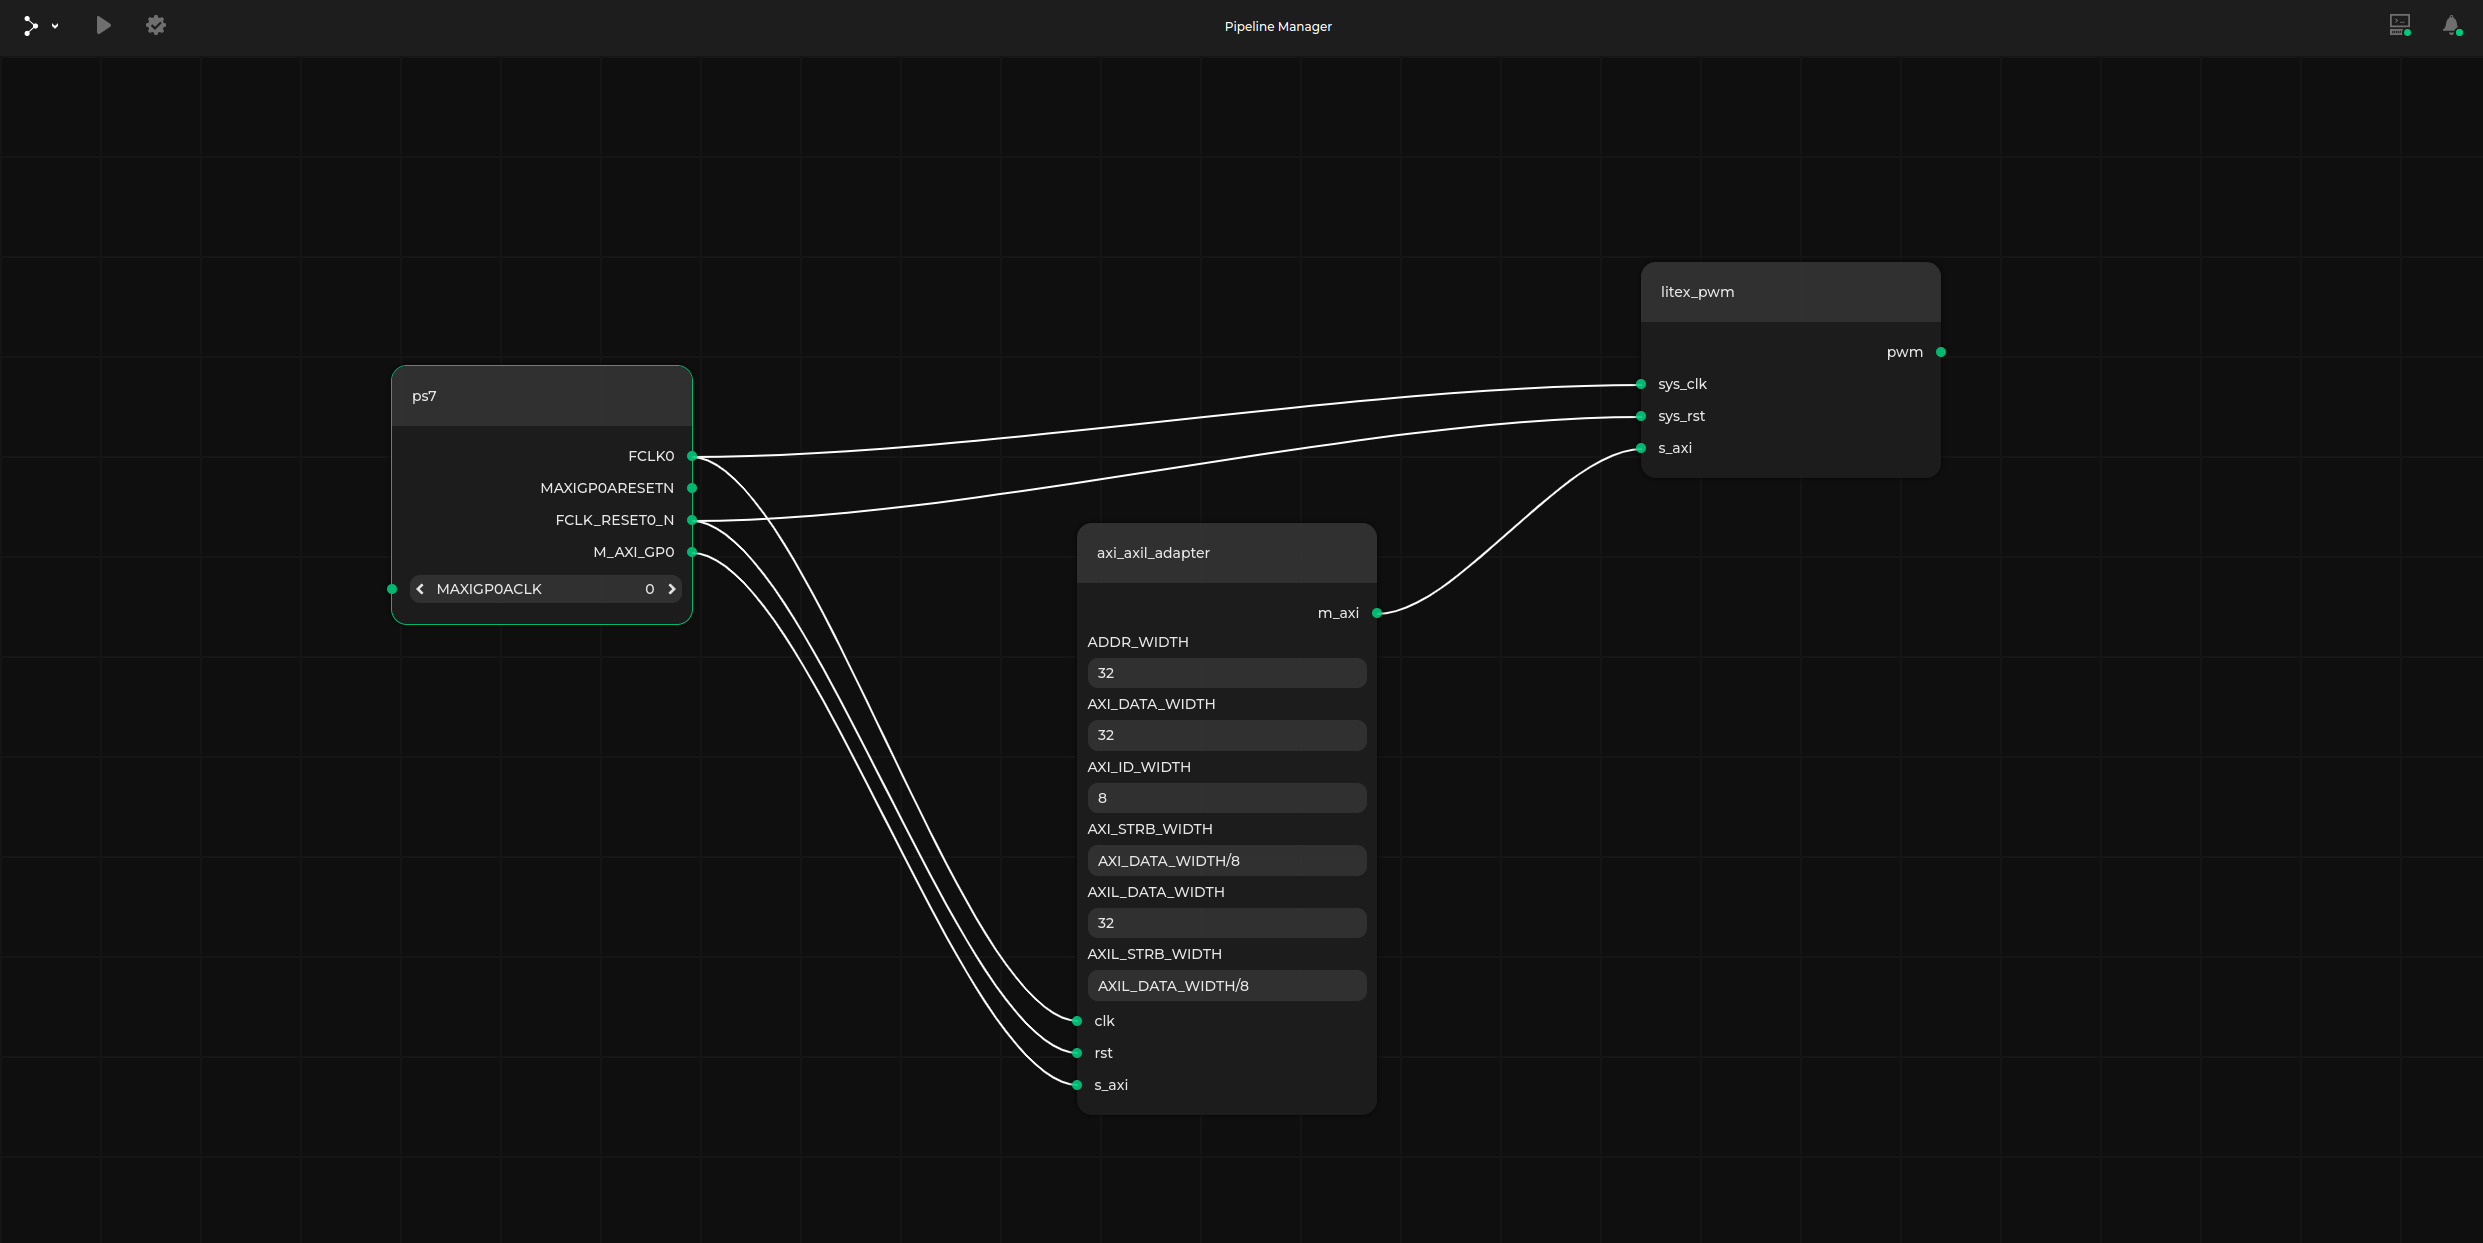
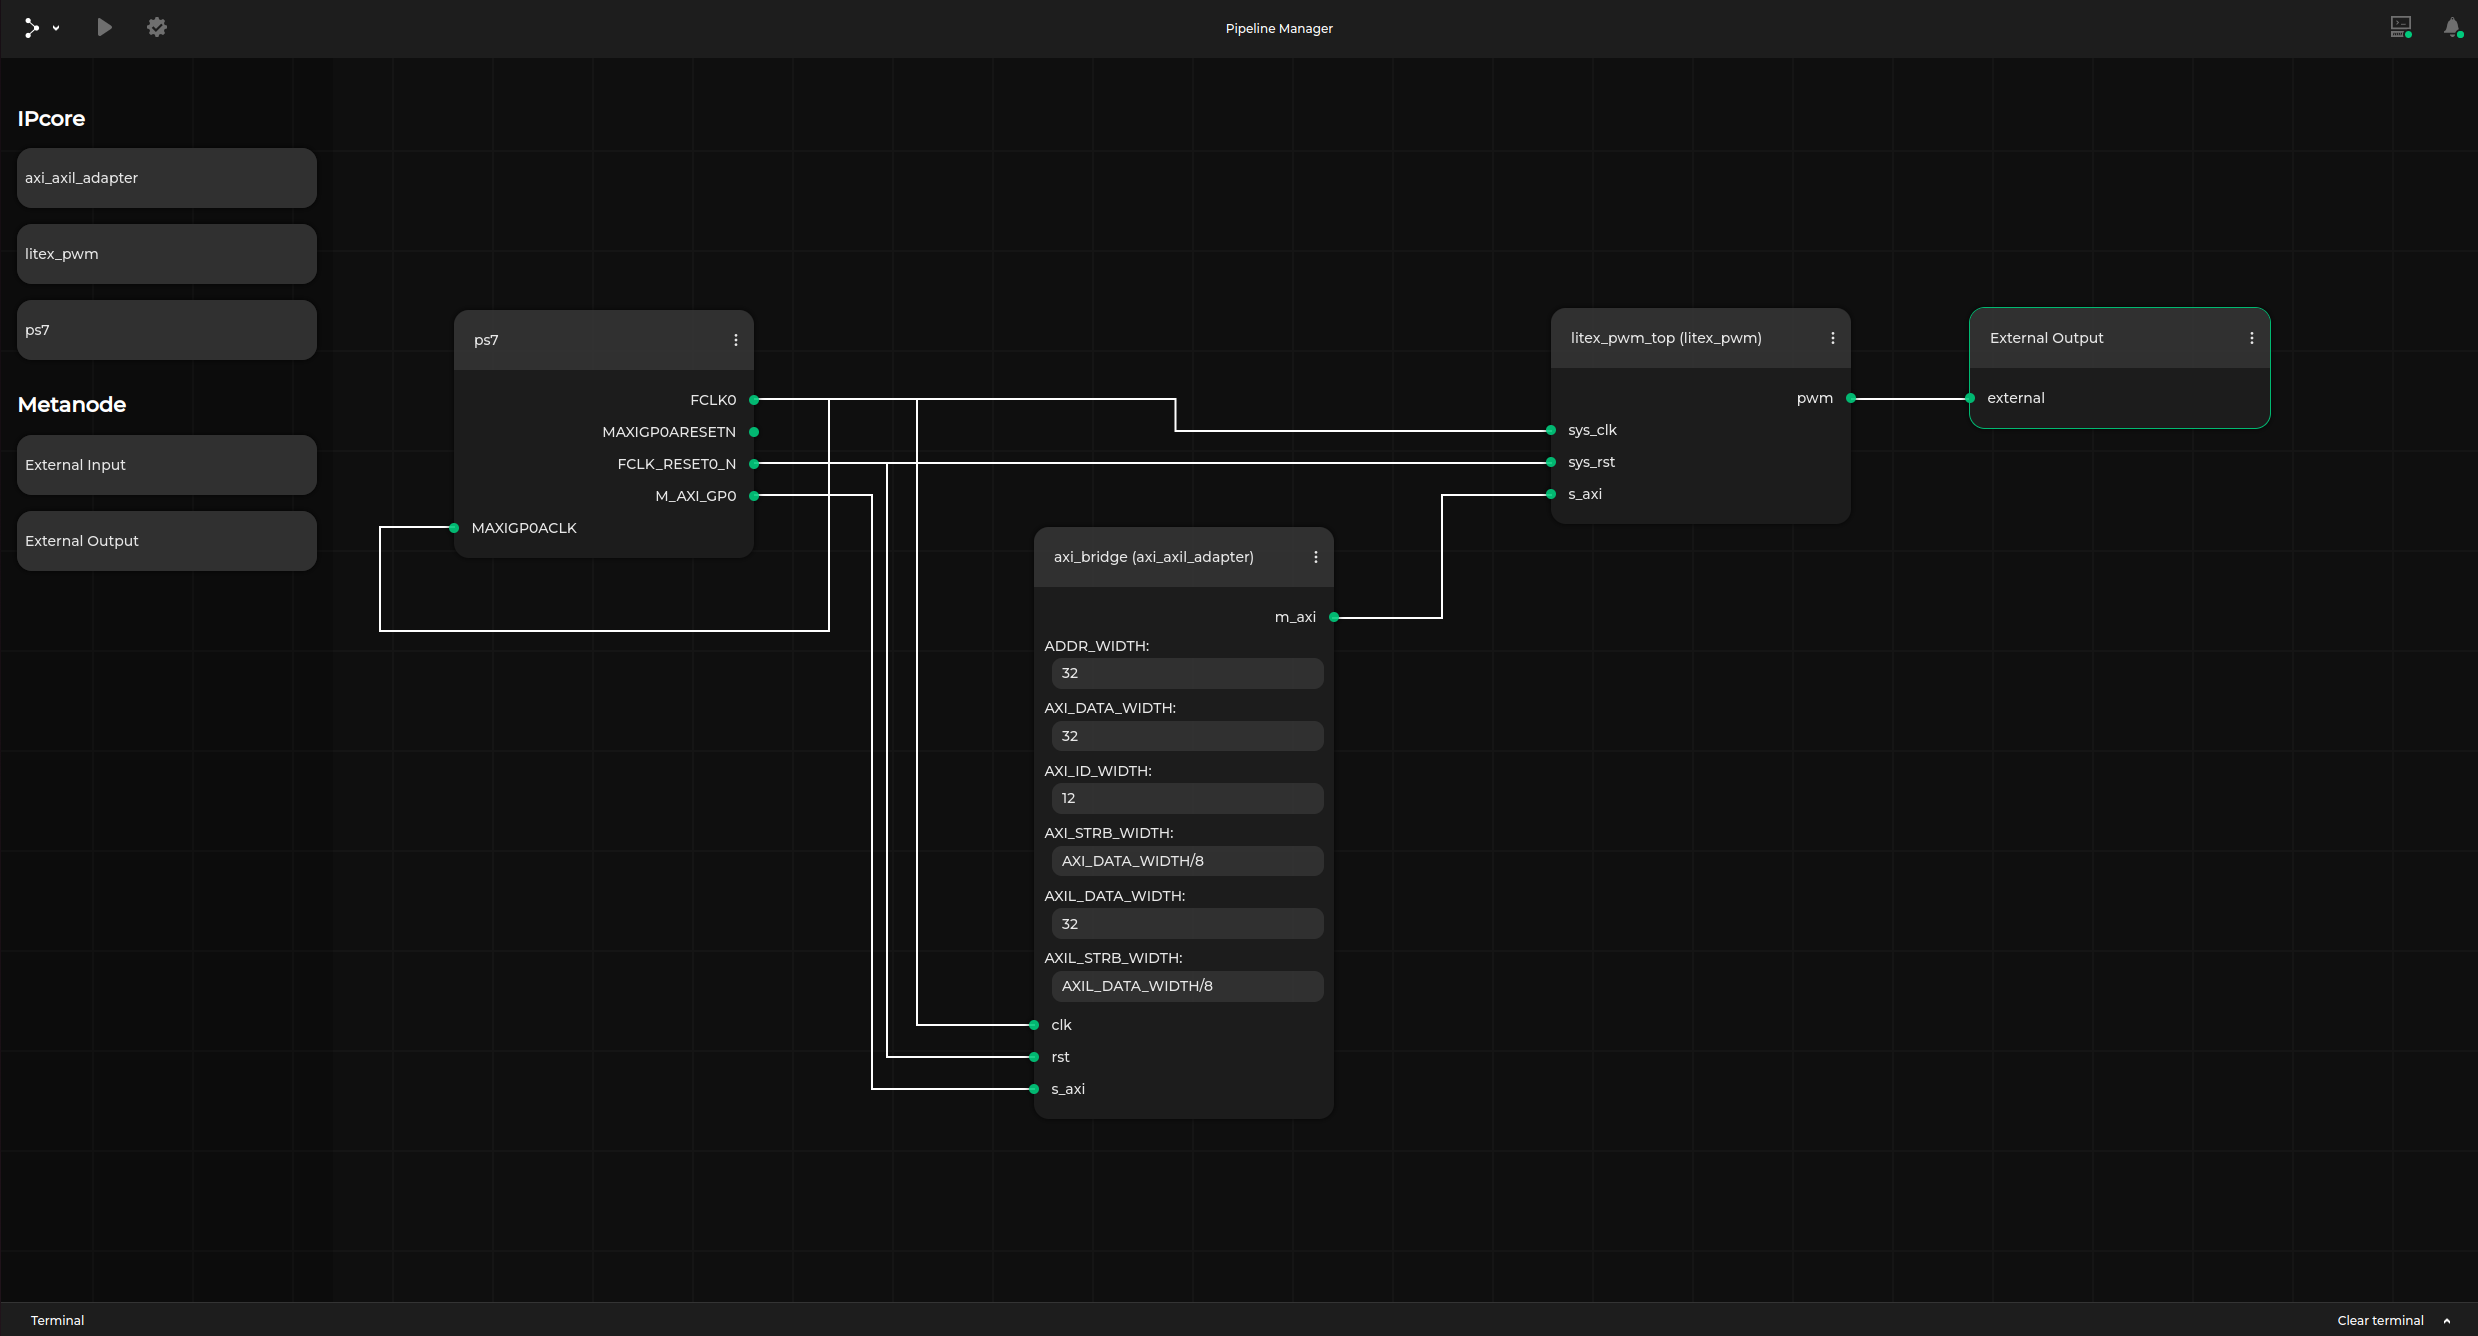
[docs] update pipeline_manager.md with info about externals

diff --git a/docs/source/pipeline_manager.md b/docs/source/pipeline_manager.md
@@ -22,8 +22,12 @@ Topwrap can make use of [Kenning Pipeline Manager](https://github.com/antmicro/k
 
 2. Establish connection with Topwrap
 
-    Once the Pipeline Manager server is running, you can now launch Topwrap's client application and connect it to the server. You need to specify IP address and listening port to which the connection will be established and choose IP core description yamls, that will be used in the block design:
+    Once the Pipeline Manager server is running, you can now launch Topwrap's client application in order to connect to the server. You need to specify:
+    * IP address (`127.0.0.1` is default)
+    * listening port (`9000` is default)
+    * yamls describing IP cores, that will be used in the block design
 
+    An example command, that runs Topwrap's client, may look like this:
     ```
     python -m fpga_topwrap kpm_client -h 127.0.0.1 -p 9000 \
         fpga_topwrap/ips/axi/axi_axil_adapter.yaml \
@@ -32,14 +36,19 @@ Topwrap can make use of [Kenning Pipeline Manager](https://github.com/antmicro/k
 
 3. Create block design in Pipeline Manager
 
-    Upon successful connection to a Pipeline Manager server, Topwrap will generate and send to it a specification describing the structure of previously selected IP cores. After that, you are free to create a custom block design by linking ports and interfaces of the selected IP cores and changing their parameters:
+    Upon successful connection to a Pipeline Manager server, Topwrap will generate and send to the server a specification describing the structure of previously selected IP cores. After that, you are free to create a custom block design by means of:
+    * adding IP core instances to the block design. Note, that you can create multiple instances of the same IP core thanks to a `rename` option in a Pipeline Manager's node.
+    * adjusting IP cores' parameters values. Each node may have input boxes in which you can enter parameters' values. Default values are added while adding an IP core to the block design.
+    * connecting IP cores' ports and interfaces
+    * specifying external ports or interfaces in the top module. This can be done by creating `External Input` or `External Output` metanodes and creating connections between them and chosen ports/interfaces. 
 
     ```{image} img/pwm_design.png
     ```
 
     There are several rules, that need to be followed while creating a block desing:
-    * only connections between ports or interfaces of matching types are allowed. This is however automatically checked by the Pipeline Manager, as the types of nodes' inputs and outputs are contained in the loaded specification, so Pipeline Manager will prevent you from connecting non-matching interfaces (e.g. *AXI4* with *AXI4Lite*).
+    * only connections between ports or interfaces of matching types are allowed. This is automatically checked by the Pipeline Manager, as the types of nodes' inputs and outputs are contained in the loaded specification, so Pipeline Manager will prevent you from connecting non-matching interfaces (e.g. *AXI4* with *AXI4Lite*).
     * parameters values can be integers of different bases (e.g. `0x28`, `40` or `0b101000`) or arithmetic expressions, that are later evaluated using [numexpr.evaluate()](https://numexpr.readthedocs.io/en/latest/api.html#numexpr.evaluate) function (e.g. `(AXI_DATA_WIDTH+1)/4` is a valid parameter value assuming that a parameter named `AXI_DATA_WIDTH` exists in the same IP core). You can also write a parameter value in a Verilog format (e.g. `8'b00011111` or `8'h1F`) - in such case it will be interpreted as a fixed-width bit vector. In order to check the validity of provided parameters values, use a {ref}`design validation <validate-design>` feature.
+    * a single port or interface cannot be external and connected to another IP core at the same time
 
     Note, that you don't always have to create a new block design by hand - you can use a {ref}`design import <import-design>` feature to load an existing block design from a description in Topwrap's yaml format.
 
